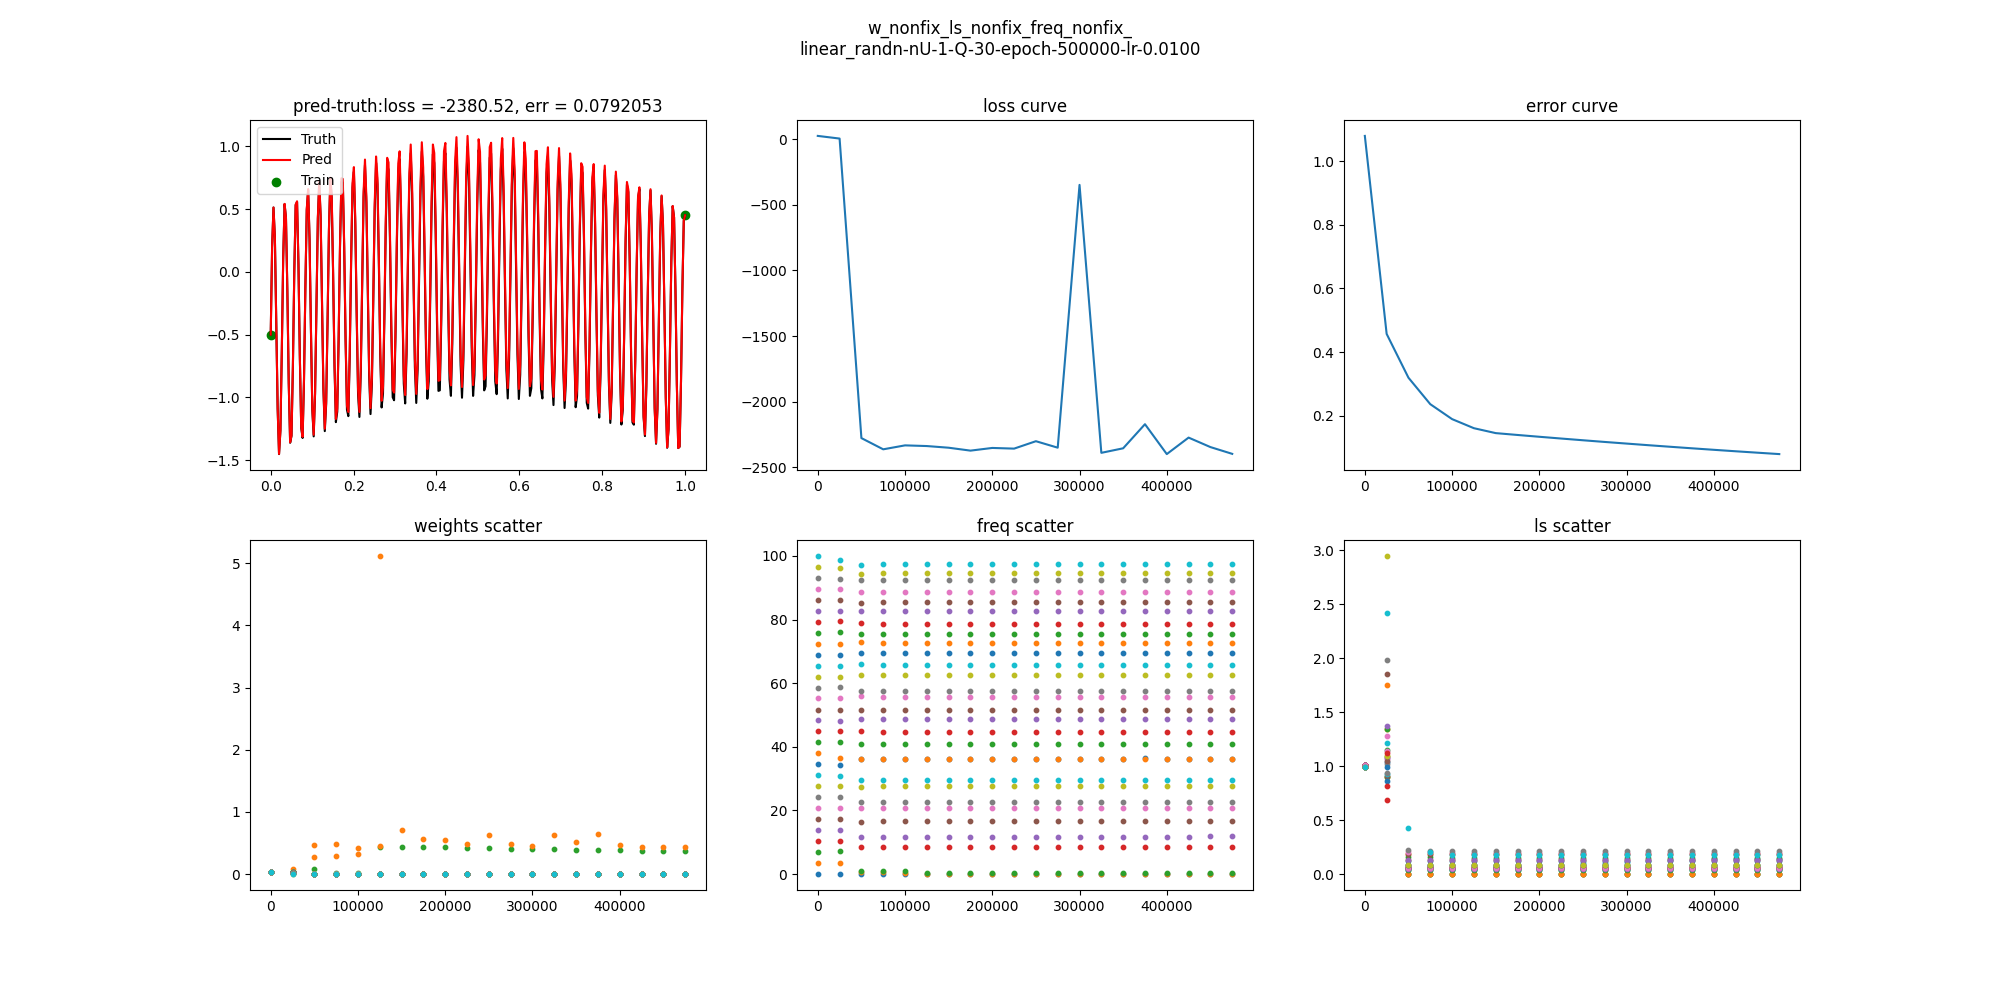
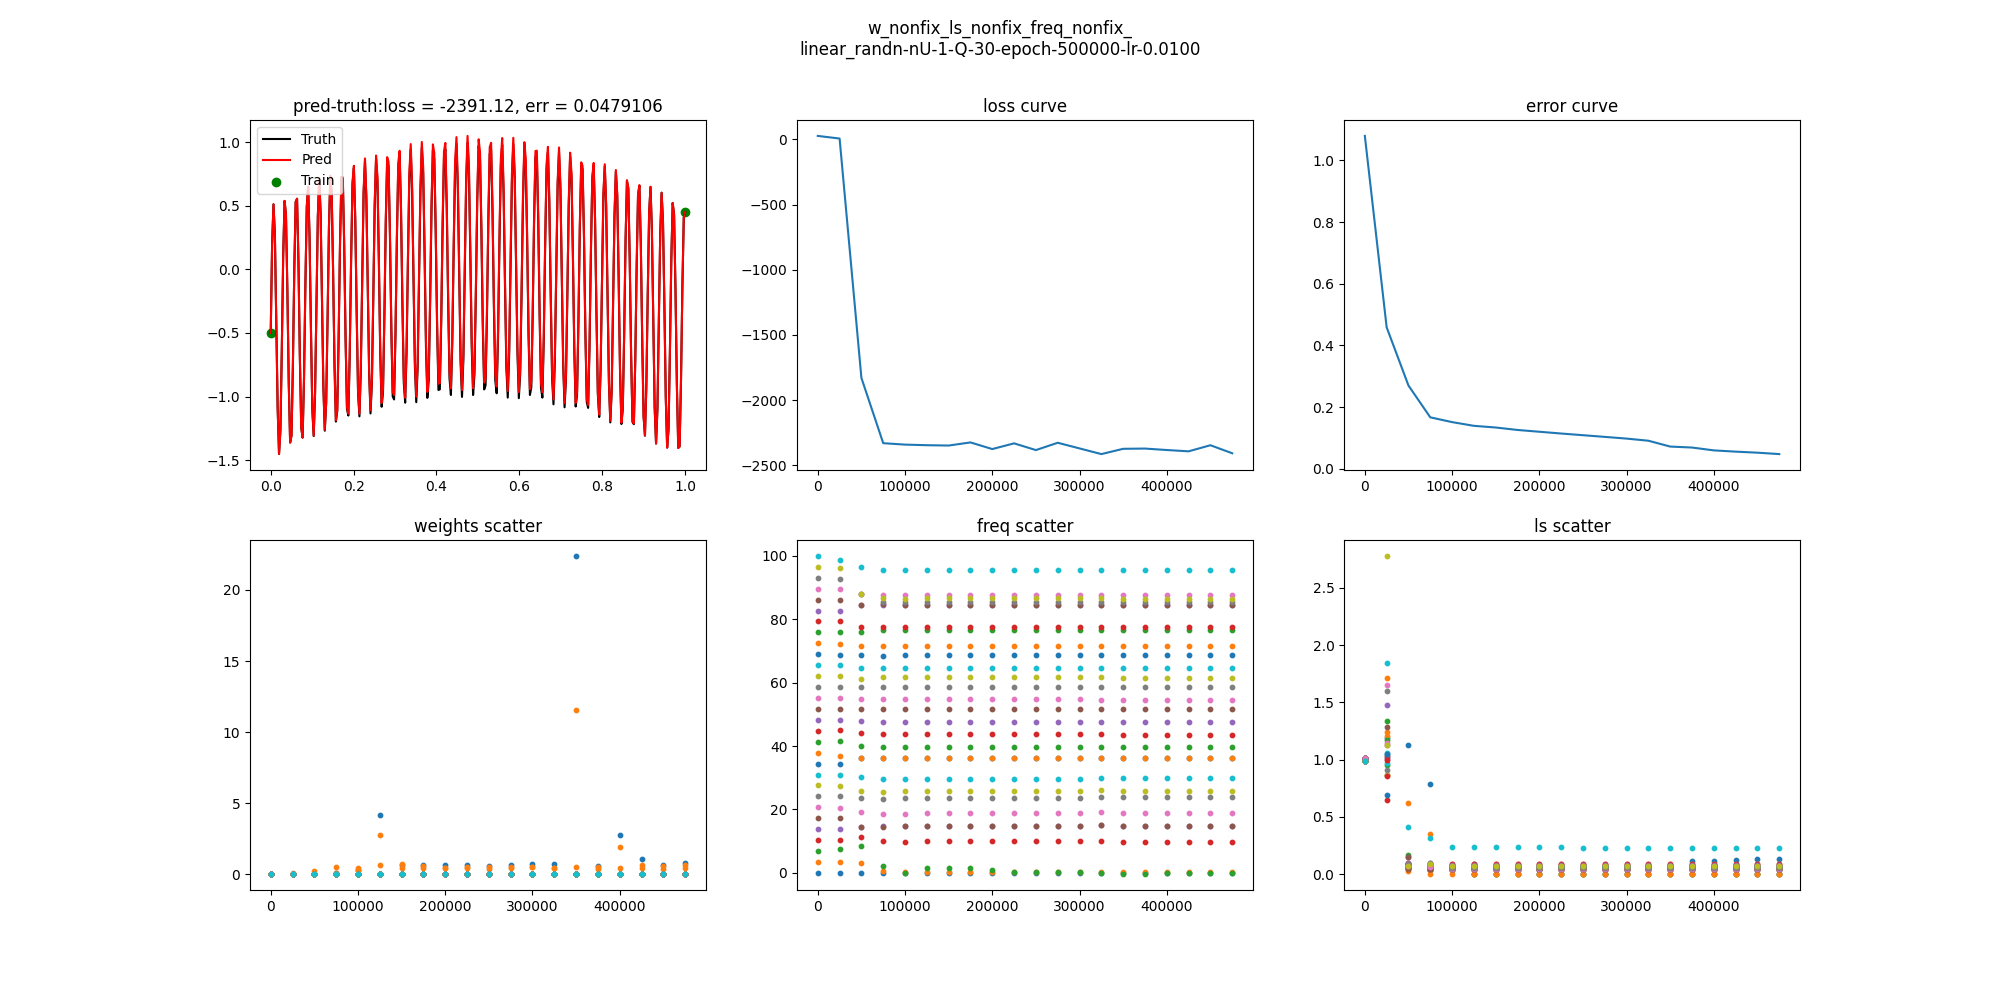
update matern_cos add poly kernel

diff --git a/Jax_version_zhe/kernels.py b/Jax_version_zhe/kernels.py
@@ -8,6 +8,78 @@ config.update("jax_enable_x64", True)
 
 
 
+class Matern52_add_poly_1d(object):
+
+    def __init__(self,fix_dict, fix_paras):
+
+        self.fix_dict = fix_dict
+        self.fix_paras = fix_paras
+
+    @partial(jit, static_argnums=(0, ))
+    def kappa(self, x1, y1, paras):
+
+        log_w = self.fix_dict['log-w']*self.fix_paras['log-w'] + (1-self.fix_dict['log-w'])*paras['log-w']
+        log_ls = self.fix_dict['log-ls']*self.fix_paras['log-ls'] + (1-self.fix_dict['log-ls'])*paras['log-ls']
+        freq = self.fix_dict['freq']*self.fix_paras['freq'] + (1-self.fix_dict['freq'])*paras['freq']
+
+        log_w_matern = paras['log-w-matern']
+        log_ls_matern = paras['log-ls-matern']
+        bias = paras['bias-poly']
+
+
+        # return (jnp.exp(paras['log-w'])*jnp.exp(-(x1-y1)**2*jnp.exp(paras['log-ls']))*jnp.cos(2*jnp.pi*(x1-y1)*paras['freq'])).sum()
+
+        d = jnp.abs(x1-y1)
+        matern_coef = (1 + jnp.sqrt(5)*d*jnp.exp(log_ls) + 5/3*d**2*jnp.exp(log_ls)**2)*jnp.exp(-jnp.sqrt(5)*d*jnp.exp(log_ls))
+        cosine = jnp.cos(2*jnp.pi*d*freq)
+
+
+         # add with sepearate polynomial kernel
+
+        #  type 1
+        return (jnp.exp(log_w)*cosine*matern_coef).sum() + (jnp.exp(log_w_matern)*(x1*y1-jnp.exp(log_ls_matern))**2).sum()
+
+
+        #  type 2
+        # return (jnp.exp(log_w)*cosine*matern_coef).sum() + (jnp.exp(log_w_matern)*(x1*y1*jnp.exp(log_ls_matern)-bias)**2).sum()
+
+
+    @partial(jit, static_argnums=(0, ))
+    def D_x1_kappa(self, x1, y1, paras): #cov(f'(x1), f(y1))
+        val = grad(self.kappa, 0)(x1, y1, paras)
+        return val
+
+    @partial(jit, static_argnums=(0, ))
+    def DD_x1_kappa(self, x1, y1, paras): #cov(f''(x1), f(y1))
+        val = grad(grad(self.kappa, 0), 0)(x1, y1, paras)
+        return val
+
+    @partial(jit, static_argnums=(0, ))
+    def D_y1_kappa(self, x1, y1, paras): #cov(f(x1), f'(y1))
+        val = grad(self.kappa, 1)(x1, y1, paras)
+        return val
+
+    @partial(jit, static_argnums=(0, ))
+    def DD_y1_kappa(self, x1, y1, paras): #cov(f(x1), f''(y1))
+        val = grad(grad(self.kappa, 1), 1)(x1, y1, paras)
+        return val
+
+    @partial(jit, static_argnums=(0, ))
+    def D_x1_D_y1_kappa(self, x1, y1, paras): #cov(f'(x1),f'(y1))
+        val = grad(grad(self.kappa, 0), 1)(x1, y1, paras)
+        return val
+    @partial(jit, static_argnums=(0, ))
+    def DD_x1_DD_y1_kappa(self, x1, y1, paras): #cov(f''(x1), f''(y1))
+        val = grad(grad(grad(grad(self.kappa, 0), 0), 1),1)(x1, y1, paras)
+        return val
+
+    @partial(jit, static_argnums=(0, ))
+    def D_x1_DD_y1_kappa(self, x1, y1, paras): #cov(f'(x1), f''(y1))
+        val = grad(grad(grad(self.kappa, 0), 1), 1)(x1, y1, paras)
+        return val
+
+
+
 
 class Matern52_add_Cos_1d(object):
     """Matern 5/2 kernel times Cosine kernel + Matern, allow fix some parameters"""
@@ -26,14 +98,30 @@ class Matern52_add_Cos_1d(object):
         freq = self.fix_dict['freq']*self.fix_paras['freq'] + (1-self.fix_dict['freq'])*paras['freq']
 
         log_w_matern = paras['log-w-matern']
+        log_ls_matern = paras['log-ls-matern']
+        bias = paras['bias-poly']
+
 
         # return (jnp.exp(paras['log-w'])*jnp.exp(-(x1-y1)**2*jnp.exp(paras['log-ls']))*jnp.cos(2*jnp.pi*(x1-y1)*paras['freq'])).sum()
 
         d = jnp.abs(x1-y1)
-        matern = (1 + jnp.sqrt(5)*d*jnp.exp(log_ls) + 5/3*d**2*jnp.exp(log_ls)**2)*jnp.exp(-jnp.sqrt(5)*d*jnp.exp(log_ls))
+        matern_coef = (1 + jnp.sqrt(5)*d*jnp.exp(log_ls) + 5/3*d**2*jnp.exp(log_ls)**2)*jnp.exp(-jnp.sqrt(5)*d*jnp.exp(log_ls))
         cosine = jnp.cos(2*jnp.pi*d*freq)
 
-        return (jnp.exp(log_w)*cosine*matern).sum() + matern[0].sum()
+        matern_single = (1 + jnp.sqrt(5)*d*jnp.exp(log_ls_matern) + 5/3*d**2*jnp.exp(log_ls_matern)**2)*jnp.exp(-jnp.sqrt(5)*d*jnp.exp(log_ls_matern))
+
+        # add with sepearate matern kernel
+        return (jnp.exp(log_w)*cosine*matern_coef).sum() + (jnp.exp(log_w_matern)*matern_single).sum()
+
+         # add with sepearate polynomial kernel
+
+        #  type 1
+        return (jnp.exp(log_w)*cosine*matern_coef).sum() + (jnp.exp(log_w_matern)*(x1*y1-jnp.exp(log_ls_matern))**2).sum()
+
+
+        #  type 2
+        # return (jnp.exp(log_w)*cosine*matern_coef).sum() + (jnp.exp(log_w_matern)*(x1*y1*jnp.exp(log_ls_matern)-bias)**2).sum()
+
 
     @partial(jit, static_argnums=(0, ))
     def D_x1_kappa(self, x1, y1, paras): #cov(f'(x1), f(y1))

diff --git a/Jax_version_zhe/poisson1d_any_fix_analysis.py b/Jax_version_zhe/poisson1d_any_fix_analysis.py
@@ -150,7 +150,7 @@ class GPRLatent:
             "log_tau": 0.0, #inv var for data ll
             "log_v": 0.0, #inv var for eq likelihood
             #"kernel_paras": {'log-w': np.zeros(Q), 'log-ls': np.zeros(Q), 'freq': np.linspace(0, 1, Q)*100},
-            "kernel_paras": {'log-w': np.log(1/Q)*np.ones(Q), 'log-ls': np.zeros(Q), 'freq': np.linspace(0, 1, Q)*100, 'log-w-matern': np.log(1/Q)*np.ones(Q)},
+            "kernel_paras": {'log-w': np.log(1/Q)*np.ones(Q), 'log-ls': np.zeros(Q), 'freq': np.linspace(0, 1, Q)*100, 'log-w-matern': np.zeros(1),'log-ls-matern': np.zeros(1),'bias-poly': 0.5*np.ones(1)},
             "u": self.trick_paras['init_u_trick'](self, self.trick_paras), #u value on the collocation points
 
         }            
@@ -325,7 +325,9 @@ if __name__ == '__main__':
 
     trick_list = [
         # {'equation':'x_time_sinx' ,'init_u_trick': np.zeros, 'num_u_trick': 1, 'Q': 30, 'lr': 1e-2},
-        {'equation':'x2_add_sinx' ,'init_u_trick': init_func.linear_randn, 'num_u_trick': 1, 'Q': 30, 'lr': 1e-2, 'llk_weight':100.0, 'kernel' : kernels.Matern52_add_Cos_1d},    
+        {'equation':'poisson1d-mix' ,'init_u_trick': init_func.linear_randn, 'num_u_trick': 1, 'Q': 30, 'lr': 1e-2, 'llk_weight':100.0, 'kernel' : kernels.Matern52_add_poly_1d},  
+
+        # {'equation':'x2_add_sinx' ,'init_u_trick': init_func.linear_randn, 'num_u_trick': 1, 'Q': 30, 'lr': 1e-2, 'llk_weight':100.0, 'kernel' : kernels.Matern52_add_Cos_1d},  
         # {'equation':'x2_add_sinx' ,'init_u_trick': init_func.linear_randn, 'num_u_trick': 1, 'Q': 30, 'lr': 1e-2, 'llk_weight':1, 'kernel' : kernels.Matern52_Cos_1d},    
 
         # {'equation':'x2_add_sinx' ,'init_u_trick': init_func.linear_randn, 'num_u_trick': 50, 'Q': 30, 'lr': 1e-2, 'llk_weight':10},     
